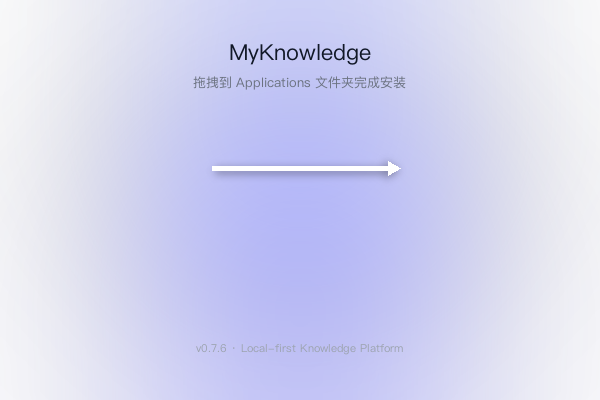
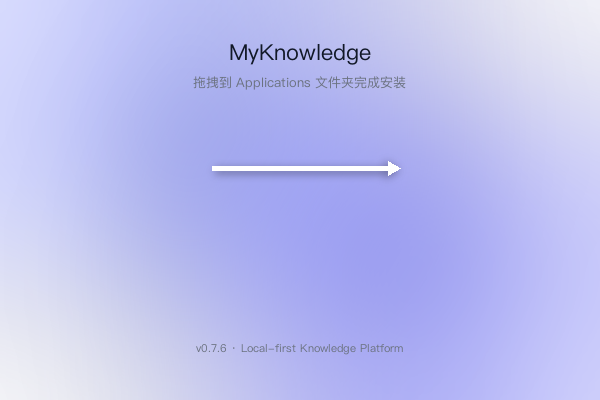
fix(desktop): DMG 背景光晕改对角线排布 + 版本号/slogan 加深可见
- 光晕从纵向 (300,120)/(300,290) 改为对角线 (190,135)/(410,265)，大半径向中部扩散
- 峰值提到 230/215 补偿斜对角重叠不足，保持淡蓝紫流动感
- 版本号/slogan 颜色 #9CA3AF → #6B7280（原色太浅在白底上不可见）

diff --git a/scripts/make-dmg-background.py b/scripts/make-dmg-background.py
@@ -72,9 +72,10 @@ def render(scale: int) -> Image.Image:
 
     img = Image.new("RGB", (W, H), (0xFF, 0xFF, 0xFF))
 
-    # 光晕：标题下方 + 底部，垂直重叠连片（淡蓝紫氛围，四角纯白）
-    img = _add_glow(img, 300 * S, 120 * S, 260 * S, (129, 140, 248), 150, 80 * S)
-    img = _add_glow(img, 300 * S, 290 * S, 280 * S, (99, 102, 241), 140, 80 * S)
+    # 光晕：对角线排布（左上 + 右下），大半径向中部扩散重叠形成斜向流动。
+    # 峰值偏高：斜对角两光晕重叠少，需各自够浓（区别于纵向定稿的互相叠浓）
+    img = _add_glow(img, 190 * S, 135 * S, 280 * S, (129, 140, 248), 230, 80 * S)
+    img = _add_glow(img, 410 * S, 265 * S, 290 * S, (99, 102, 241), 215, 80 * S)
     d = ImageDraw.Draw(img)
 
     # 箭头：白色 + 柔光阴影（与定稿图一致）
@@ -94,7 +95,7 @@ def render(scale: int) -> Image.Image:
            fill=(0x6B, 0x72, 0x80), anchor="mm")
     f_tag = _font(11 * S)
     d.text((W / 2, 348 * S), "v0.7.6 · Local-first Knowledge Platform", font=f_tag,
-           fill=(0x9C, 0xA3, 0xAF), anchor="mm")
+           fill=(0x6B, 0x72, 0x80), anchor="mm")
 
     return img
 
